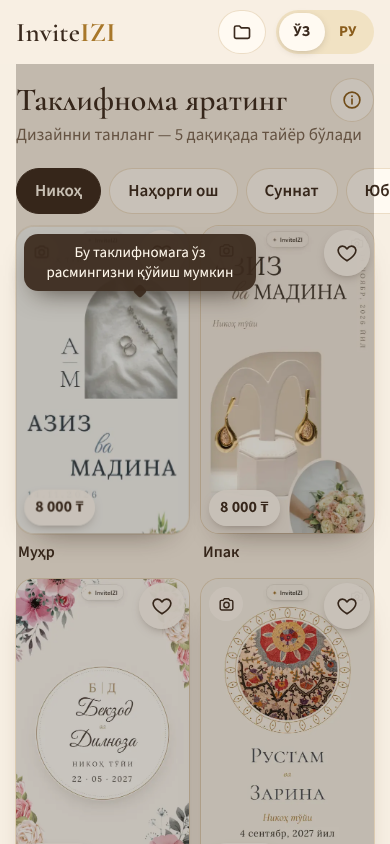
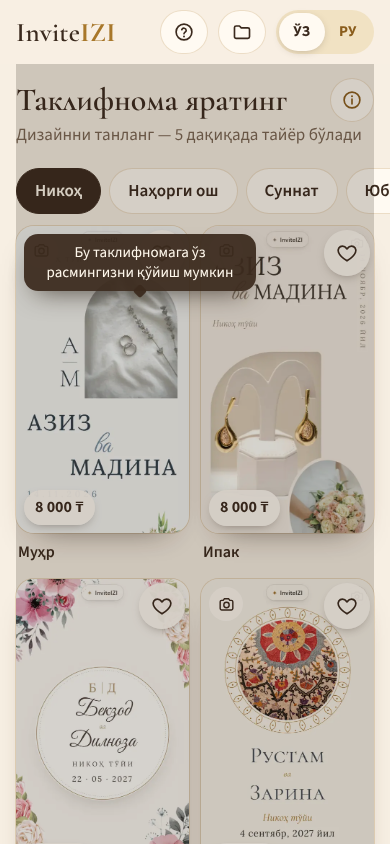
feat(app): help sheet in header with how-to, contact and terms
Claude-Session: https://claude.ai/code/session_01Dckuo7APfmYiWpnyMsLqk6

diff --git a/app/app/MiniApp.tsx b/app/app/MiniApp.tsx
@@ -22,7 +22,8 @@ import { isQuiet } from "@/lib/quiet-hours";
 import { Orders } from "./ui/Orders";
 import { MainAction, TextsContext, Toast } from "./ui/shared";
 import { haptic, insideTelegram, setupTelegram, tg, useBackButton, useNativeMainVisible } from "./ui/telegram";
-import { BackIcon, CloseIcon, FolderIcon } from "./ui/icons";
+import { BackIcon, CloseIcon, FolderIcon, HelpIcon } from "./ui/icons";
+import { Help } from "./ui/Help";
 import s from "./app.module.css";
 
 type Screen =
@@ -65,6 +66,7 @@ export default function MiniApp({ fontClass }: { fontClass: string }) {
   const [saveStatus, setSaveStatus] = useState("");
   const [viewer, setViewer] = useState<string | null>(null);
   const [bigOpen, setBigPreview] = useState(false);
+  const [help, setHelp] = useState(false);
   const screen = stack[stack.length - 1];
   // Большое превью живёт только на анкете: ушли с неё — закрыто
   const bigPreview = bigOpen && screen.name === "form";
@@ -117,7 +119,7 @@ export default function MiniApp({ fontClass }: { fontClass: string }) {
     setStack(list);
     window.scrollTo({ top: 0 });
   }, []);
-  useBackButton(stack.length > 1 || !!viewer || bigPreview, () => (bigPreview ? setBigPreview(false) : viewer ? setViewer(null) : back()));
+  useBackButton(stack.length > 1 || !!viewer || bigPreview || help, () => (help ? setHelp(false) : bigPreview ? setBigPreview(false) : viewer ? setViewer(null) : back()));
 
   // ── Черновик: сохраняем на сервере с задержкой ──
   const firstDraft = useRef(true);
@@ -362,7 +364,7 @@ export default function MiniApp({ fontClass }: { fontClass: string }) {
   const price = order?.amount ?? (design ? PRICES[design.format] : 0);
 
   // Своя кнопка внизу страницы видна (native MainButton не показана, а у экрана есть главное действие)
-  const ownBar = !nativeMain && phase === "ready" && !viewer && !bigPreview && MAIN_SCREENS.has(screen.name);
+  const ownBar = !nativeMain && phase === "ready" && !viewer && !bigPreview && !help && MAIN_SCREENS.has(screen.name);
 
   // ── Главная кнопка экрана ──
   let main: { text: string | null; onClick: () => void; progress?: boolean } = { text: null, onClick: () => undefined };
@@ -388,7 +390,7 @@ export default function MiniApp({ fontClass }: { fontClass: string }) {
         break;
     }
   }
-  if (viewer || bigPreview) main = { text: null, onClick: () => undefined };
+  if (viewer || bigPreview || help) main = { text: null, onClick: () => undefined };
 
   const resume =
     draft?.templateId && design && screen.name === "catalog"
@@ -409,6 +411,9 @@ export default function MiniApp({ fontClass }: { fontClass: string }) {
               <span className={s.brand}>
                 Invite<b>IZI</b>
               </span>
+              <button type="button" className={s.iconBtn} onClick={() => { haptic.tap(); setHelp(true); }} aria-label={T.help} data-help-btn>
+                <HelpIcon />
+              </button>
               <button type="button" className={s.iconBtn} onClick={() => (screen.name === "orders" ? undefined : go({ name: "orders" }))} aria-label={T.myOrders} aria-pressed={screen.name === "orders"}>
                 <FolderIcon />
               </button>
@@ -503,6 +508,16 @@ export default function MiniApp({ fontClass }: { fontClass: string }) {
           </div>
         )}
 
+        {help && session && (
+          <Help
+            contact={session.contact}
+            onClose={() => setHelp(false)}
+            onTerms={() => {
+              setHelp(false);
+              setViewer(lang === "uz" ? "/terms" : "/terms/ru");
+            }}
+          />
+        )}
         <MainAction text={main.text} onClick={main.onClick} progress={main.progress} />
         <Toast text={toast} onDone={() => setToast(null)} />
       </div>

diff --git a/app/app/ui/Help.tsx b/app/app/ui/Help.tsx
@@ -1,0 +1,37 @@
+"use client";
+/** «Ёрдам» из шапки: коротко как заказать, «Боғланиш» (Telegram владельца) и «Шартлар» */
+import { useT } from "./shared";
+import { haptic, openLink } from "./telegram";
+import { CloseIcon } from "./icons";
+import s from "../app.module.css";
+
+export function Help({ contact, onClose, onTerms }: { contact: string; onClose: () => void; onTerms: () => void }) {
+  const T = useT();
+  return (
+    <div className={s.sheetBack} onClick={onClose} role="presentation">
+      <div className={s.sheet} role="dialog" aria-modal="true" aria-label={T.help} onClick={(e) => e.stopPropagation()} data-help>
+        <div className={s.sheetHead}>
+          <h2>{T.helpTitle}</h2>
+          <button type="button" className={s.backPill} onClick={onClose}>
+            <CloseIcon size={18} />
+            {T.catalog.close}
+          </button>
+        </div>
+        <ol className={s.helpSteps}>
+          {T.helpSteps.map((x) => (
+            <li key={x}>{x}</li>
+          ))}
+        </ol>
+        <p className={s.help}>{T.helpContactHint}</p>
+        <div className={s.doneActions}>
+          <button type="button" className={`${s.btn} ${s.btnWide}`} onClick={() => { haptic.tap(); openLink(contact); }}>
+            {T.helpContact}
+          </button>
+          <button type="button" className={`${s.btn} ${s.btnGhost} ${s.btnWide}`} onClick={onTerms}>
+            {T.helpTerms}
+          </button>
+        </div>
+      </div>
+    </div>
+  );
+}

diff --git a/texts/app-kk.ts b/texts/app-kk.ts
@@ -271,5 +271,11 @@ export const appKk: AppTexts = {
     error: "Қате. Панельді жауып, қайта ашыңыз.",
   },
 
+  help: "Көмек",
+  helpTitle: "Қалай тапсырыс беру",
+  helpSteps: ["Каталогтан дизайн таңдаңыз — «Мысал» толық көрсетеді.", "Есімдерді, күнді және орынды жазыңыз — жоғарыдағы үлгі бірден өзгереді.", "Мәтін мен әуенді тексеріп, «Үлгі» сілтемесін ашыңыз.", "Kaspi арқылы төлеп, чекті осында жүктеңіз.", "Админ тексергеннен кейін сілтеме дайын — қонақтарға жіберіңіз."],
+  helpContact: "Байланысу",
+  helpContactHint: "Сұрақ болса немесе қолмен өзгерту керек болса — иесіне Telegram-да жазыңыз.",
+  helpTerms: "Шарттар",
   back: "Артқа",
 };

diff --git a/texts/app-uz.ts b/texts/app-uz.ts
@@ -271,6 +271,12 @@ export const appUz = {
     error: "Хатолик. Панелни ёпиб, қайта очинг.",
   },
 
+  help: "Ёрдам",
+  helpTitle: "Қандай буюртма қилинади",
+  helpSteps: ["Каталогдан дизайн танланг — «Мисол»да кўринади.", "Исмлар, сана ва жойни ёзинг — юқоридаги намунада дарров кўринади.", "Матн ва мусиқани текширинг, «Намуна» ҳаволасини очиб кўринг.", "Kaspi орқали тўланг ва чекни шу ерда юкланг.", "Админ текширгач, ҳавола тайёр — меҳмонларга юборинг."],
+  helpContact: "Боғланиш",
+  helpContactHint: "Савол бўлса ёки қўлда ўзгартириш керак бўлса — эгасига Telegram’да ёзинг.",
+  helpTerms: "Шартлар",
   back: "Орқага",
 };
 

diff --git a/texts/app-ru.ts b/texts/app-ru.ts
@@ -267,5 +267,11 @@ export const appRu: AppTexts = {
     error: "Ошибка. Закройте и откройте панель ещё раз.",
   },
 
+  help: "Помощь",
+  helpTitle: "Как заказать",
+  helpSteps: ["Выберите дизайн в каталоге — «Пример» покажет его целиком.", "Впишите имена, дату и место — образец сверху меняется сразу.", "Проверьте текст и музыку, откройте ссылку «Образец».", "Оплатите через Kaspi и загрузите чек здесь же.", "После проверки админом ссылка готова — отправьте гостям."],
+  helpContact: "Связаться",
+  helpContactHint: "Вопрос или нужна ручная правка — напишите владельцу в Telegram.",
+  helpTerms: "Условия",
   back: "Назад",
 };

diff --git a/bot/app/service.ts b/bot/app/service.ts
@@ -69,6 +69,8 @@ export type AppSession = {
   pay: { phone: string; name: string; card: string | null };
   /** Какие языки можно добавить (казахский — только при KAZAKH_ENABLED) */
   extraLangs: ExtraLang[];
+  /** «Боғланиш» в «Ёрдам»: Telegram владельца */
+  contact: string;
 };
 
 const MAX_ORDERS = 20;
@@ -185,6 +187,7 @@ export async function openSession(deps: Deps, u: AppUser): Promise<AppSession> {
     today: kzToday(deps.now()),
     pay: { phone: deps.env.kaspiPhone, name: deps.env.kaspiName, card: deps.env.paymentCardNumber ?? null },
     extraLangs: allowedLangs(deps),
+    contact: `https://t.me/${deps.env.ownerUsername.replace(/^@/, "")}`,
   };
 }
 

diff --git a/app/app/ui/icons.tsx b/app/app/ui/icons.tsx
@@ -82,3 +82,10 @@ export const PencilIcon = (p: { size?: number }) => (
     <path d="M14.8 5.6l3.6 3.6M5 19l1-4.3L15.6 5a1.6 1.6 0 0 1 2.3 0l1.1 1.1a1.6 1.6 0 0 1 0 2.3L9.3 18z" />
   </Svg>
 );
+export const HelpIcon = (p: { size?: number }) => (
+  <Svg {...p}>
+    <circle cx="12" cy="12" r="8.6" />
+    <path d="M9.6 9.4a2.5 2.5 0 0 1 4.8.9c0 1.7-2.4 2.1-2.4 3.7" />
+    <circle className={s.iconFill} cx="12" cy="16.9" r="1.05" />
+  </Svg>
+);

diff --git a/app/app/app.module.css b/app/app/app.module.css
@@ -1470,3 +1470,18 @@ textarea.input {
   accent-color: var(--gold-deep);
   flex: none;
 }
+
+/* ── «Ёрдам» ── */
+.helpSteps {
+  list-style: decimal;
+  margin: 0 0 12px;
+  padding: 0 0 0 22px;
+  display: grid;
+  gap: 8px;
+  font-size: 16px;
+  line-height: 1.45;
+}
+.helpSteps li::marker {
+  color: var(--gold-deep);
+  font-weight: 700;
+}
